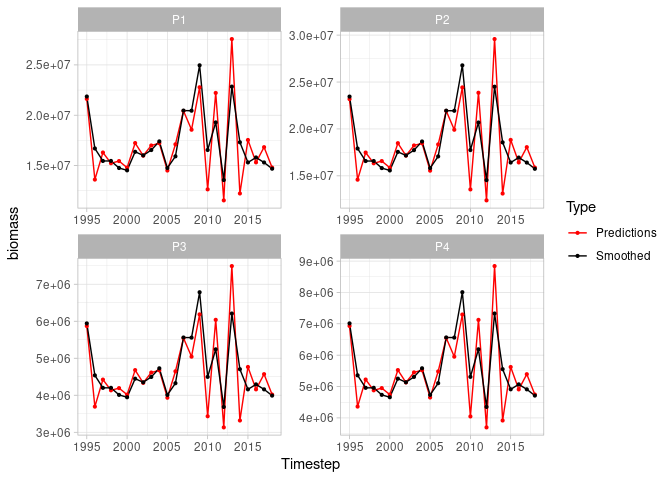
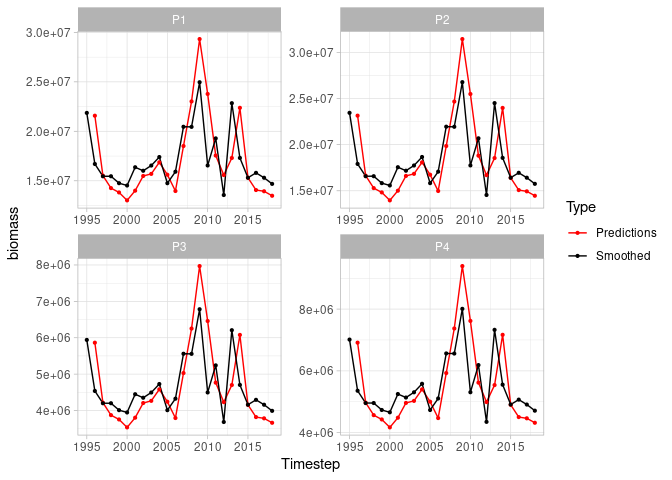
update readme

diff --git a/README.md b/README.md
@@ -402,10 +402,24 @@ sspm_model
 sspm_model_fit <- sspm_model %>% 
   spm(log_productivity ~ sfa +
         weight_per_km2_all_predators_lag_1 +
-        smooth_lag("weight_per_km2_borealis_with_catch") + 
+        smooth_space(by = weight_per_km2_borealis_with_catch) +
         smooth_space(), 
       family = mgcv::scat)
-#> ℹ  Fitting SPM formula: log_productivity ~ sfa + weight_per_km2_all_predators_lag_1 + smooth_lag('weight_per_km2_borealis_with_catch') + smooth_space()
+#> ℹ  Fitting SPM formula: log_productivity ~ sfa + weight_per_km2_all_predators_lag_1 + smooth_space(by = weight_per_km2_borealis_with_catch) + smooth_space()
+#> Warning in estimate.theta(theta, family, G$y, linkinv(eta), scale = scale1, :
+#> step failure in theta estimation
+
+#> Warning in estimate.theta(theta, family, G$y, linkinv(eta), scale = scale1, :
+#> step failure in theta estimation
+
+#> Warning in estimate.theta(theta, family, G$y, linkinv(eta), scale = scale1, :
+#> step failure in theta estimation
+
+#> Warning in estimate.theta(theta, family, G$y, linkinv(eta), scale = scale1, :
+#> step failure in theta estimation
+
+#> Warning in estimate.theta(theta, family, G$y, linkinv(eta), scale = scale1, :
+#> step failure in theta estimation
 
 sspm_model_fit
 #> 
@@ -413,33 +427,37 @@ sspm_model_fit
 #> →  Smoothed data : [2208 rows, 17 columns] / [2116 train, 92 test]
 #> →  Fit summary : 
 #> 
-#> Family: Scaled t(12.132,0.197) 
+#> Family: Scaled t(Inf,0.243) 
 #> Link function: identity 
 #> 
 #> Formula:
 #> log_productivity ~ sfa + weight_per_km2_all_predators_lag_1 + 
-#>     s(lag_matrix, k = 5, m = 1, by = by_matrix) + s(patch_id, 
+#>     s(patch_id, k = 30, bs = "mrf", xt = list(penalty = pen_mat_space), 
+#>         by = weight_per_km2_borealis_with_catch) + s(patch_id, 
 #>     k = 30, bs = "mrf", xt = list(penalty = pen_mat_space))
 #> 
 #> Parametric coefficients:
-#>                                     Estimate Std. Error t value Pr(>|t|)    
-#> (Intercept)                        6.451e-01  3.662e-02  17.617  < 2e-16 ***
-#> sfa5                               5.280e-02  1.585e-02   3.331 0.000882 ***
-#> sfa6                               9.309e-02  1.516e-02   6.139 1.00e-09 ***
-#> sfa7                               8.667e-02  1.552e-02   5.584 2.67e-08 ***
-#> weight_per_km2_all_predators_lag_1 3.426e-05  1.096e-05   3.127 0.001793 ** 
+#>                                      Estimate Std. Error t value Pr(>|t|)    
+#> (Intercept)                        -6.463e-01  7.031e-02  -9.192  < 2e-16 ***
+#> sfa5                               -5.304e-02  6.328e-02  -0.838 0.402049    
+#> sfa6                                5.453e-02  8.101e-02   0.673 0.500963    
+#> sfa7                               -3.976e-02  8.886e-02  -0.447 0.654646    
+#> weight_per_km2_all_predators_lag_1 -3.887e-05  1.114e-05  -3.490 0.000493 ***
 #> ---
 #> Signif. codes:  0 '***' 0.001 '**' 0.01 '*' 0.05 '.' 0.1 ' ' 1
 #> 
 #> Approximate significance of smooth terms:
-#>                            edf Ref.df     F p-value    
-#> s(lag_matrix):by_matrix 4.9849      5 332.5  <2e-16 ***
-#> s(patch_id)             0.9987     29  22.2  <2e-16 ***
+#>                                                   edf Ref.df      F  p-value
+#> s(patch_id):weight_per_km2_borealis_with_catch 16.121     30 29.565  < 2e-16
+#> s(patch_id)                                     6.498     29  0.447 0.000238
+#>                                                   
+#> s(patch_id):weight_per_km2_borealis_with_catch ***
+#> s(patch_id)                                    ***
 #> ---
 #> Signif. codes:  0 '***' 0.001 '**' 0.01 '*' 0.05 '.' 0.1 ' ' 1
 #> 
-#> R-sq.(adj) =  0.649   Deviance explained = 49.4%
-#> -REML =   2918  Scale est. = 1         n = 2024
+#> R-sq.(adj) =  0.548   Deviance explained = 55.4%
+#> -REML =   2936  Scale est. = 1         n = 2024
 ```
 
 16. Plotting the object produces a actual vs predicted plot (with
@@ -463,12 +481,12 @@ head(preds)
 #> Bounding box:  xmin: -64.18658 ymin: 59.47292 xmax: -62.26589 ymax: 60.84335
 #> Geodetic CRS:  WGS 84
 #>      pred_log      pred patch_id year_f sfa      patch_area
-#> 1 -0.01082131 0.9892370       P1   1995   4 5866.769 [km^2]
-#> 2 -0.20447196 0.8150776       P1   1996   4 5866.769 [km^2]
-#> 3  0.05312451 1.0545609       P1   1997   4 5866.769 [km^2]
-#> 4 -0.01467134 0.9854358       P1   1998   4 5866.769 [km^2]
-#> 5  0.04595468 1.0470270       P1   1999   4 5866.769 [km^2]
-#> 6  0.01870983 1.0188860       P1   2000   4 5866.769 [km^2]
+#> 1  0.21007291 1.2337680       P1   1995   4 5866.769 [km^2]
+#> 2 -0.01276559 0.9873155       P1   1996   4 5866.769 [km^2]
+#> 3 -0.07326884 0.9293509       P1   1997   4 5866.769 [km^2]
+#> 4 -0.08042215 0.9227267       P1   1998   4 5866.769 [km^2]
+#> 5 -0.11153992 0.8944557       P1   1999   4 5866.769 [km^2]
+#> 6 -0.12501826 0.8824808       P1   2000   4 5866.769 [km^2]
 #>                         geometry
 #> 1 POLYGON ((-62.56544 59.4729...
 #> 2 POLYGON ((-62.56544 59.4729...
@@ -489,27 +507,16 @@ head(biomass_preds)
 #> Dimension:     XY
 #> Bounding box:  xmin: -64.18658 ymin: 59.47292 xmax: -62.26589 ymax: 60.84335
 #> Geodetic CRS:  WGS 84
-#>   patch_id year_f sfa      patch_area biomass_density_with_catch
-#> 1       P1   1995   4 5866.769 [km^2]         3685.499 [kg/km^2]
-#> 2       P1   1996   4 5866.769 [km^2]         2319.445 [kg/km^2]
-#> 3       P1   1997   4 5866.769 [km^2]         2777.573 [kg/km^2]
-#> 4       P1   1998   4 5866.769 [km^2]         2595.895 [kg/km^2]
-#> 5       P1   1999   4 5866.769 [km^2]         2633.052 [kg/km^2]
-#> 6       P1   2000   4 5866.769 [km^2]         2521.581 [kg/km^2]
-#>      biomass_density biomass_with_catch       biomass
-#> 1 3684.851 [kg/km^2]      21621970 [kg] 21618171 [kg]
-#> 2 2318.692 [kg/km^2]      13607646 [kg] 13603229 [kg]
-#> 3 2777.140 [kg/km^2]      16295382 [kg] 16292840 [kg]
-#> 4 2595.660 [kg/km^2]      15229518 [kg] 15228138 [kg]
-#> 5 2632.172 [kg/km^2]      15447507 [kg] 15442346 [kg]
-#> 6 2520.828 [kg/km^2]      14793536 [kg] 14789119 [kg]
-#>                         geometry
-#> 1 POLYGON ((-62.56544 59.4729...
-#> 2 POLYGON ((-62.56544 59.4729...
-#> 3 POLYGON ((-62.56544 59.4729...
-#> 4 POLYGON ((-62.56544 59.4729...
-#> 5 POLYGON ((-62.56544 59.4729...
-#> 6 POLYGON ((-62.56544 59.4729...
+#> # A tibble: 6 × 9
+#>   year_f patch_id sfa   patch_area biomass_with_catch   biomass biomass_density…
+#>    <dbl> <fct>    <fct>     [km^2]               [kg]      [kg]        [kg/km^2]
+#> 1   1995 P1       4          5867.                NA        NA               NA 
+#> 2   1996 P1       4          5867.          21579972. 21575555.            3678.
+#> 3   1997 P1       4          5867.          15515429. 15512888.            2645.
+#> 4   1998 P1       4          5867.          14258242. 14256862.            2430.
+#> 5   1999 P1       4          5867.          13823457. 13818296.            2356.
+#> 6   2000 P1       4          5867.          13019844. 13015428.            2219.
+#> # … with 2 more variables: biomass_density [kg/km^2], geometry <POLYGON [°]>
 ```
 
 We can also predict the biomass one step ahead.
@@ -517,6 +524,7 @@ We can also predict the biomass one step ahead.
 ``` r
 biomass_one_step <- predict(sspm_model_fit, biomass = "weight_per_km2_borealis", 
                             next_ts = TRUE)
+#> ! Not all vars are lagged vars: weight_per_km2_borealis_with_catch
 head(biomass_one_step)
 #> Simple feature collection with 6 features and 5 fields
 #> Geometry type: POLYGON
@@ -524,14 +532,14 @@ head(biomass_one_step)
 #> Bounding box:  xmin: -64.18658 ymin: 58.17744 xmax: -60.85729 ymax: 60.84488
 #> Geodetic CRS:  WGS 84
 #> # A tibble: 6 × 6
-#>   patch_id year_f sfa     biomass patch_area                            geometry
-#>   <fct>     <dbl> <fct>      [kg]     [km^2]                       <POLYGON [°]>
-#> 1 P1         2019 4     15936996.      5867. ((-62.56544 59.47292, -62.51885 60…
-#> 2 P2         2019 4     21005361.      6294. ((-61.15825 60.5856, -61.18083 60.…
-#> 3 P3         2019 4      4447293.      1594. ((-61.98352 59.91756, -62.14032 59…
-#> 4 P4         2019 4      4771797.      1882. ((-61.60726 58.17744, -61.55968 58…
-#> 5 P5         2019 4      5449759.      1890. ((-61.54308 58.72455, -60.98005 58…
-#> 6 P6         2019 4      5622850.      2149. ((-62.81971 59.18792, -62.54312 59…
+#>   patch_id year_f sfa   biomass patch_area                              geometry
+#>   <fct>     <dbl> <fct>    [kg]     [km^2]                         <POLYGON [°]>
+#> 1 P1         2019 4          NA      5867. ((-62.56544 59.47292, -62.51885 60.2…
+#> 2 P2         2019 4          NA      6294. ((-61.15825 60.5856, -61.18083 60.61…
+#> 3 P3         2019 4          NA      1594. ((-61.98352 59.91756, -62.14032 59.9…
+#> 4 P4         2019 4          NA      1882. ((-61.60726 58.17744, -61.55968 58.2…
+#> 5 P5         2019 4          NA      1890. ((-61.54308 58.72455, -60.98005 58.9…
+#> 6 P6         2019 4          NA      2149. ((-62.81971 59.18792, -62.54312 59.4…
 ```
 
 18. We can produce an array of plots, as timeseries or as spatial plots
@@ -552,6 +560,8 @@ plot(sspm_model_fit, log = T, use_sf = TRUE)
 
 ``` r
 plot(sspm_model_fit, biomass = "weight_per_km2_borealis",  scales = "free")
+#> Warning: Removed 1 row(s) containing missing values (geom_path).
+#> Warning: Removed 92 rows containing missing values (geom_point).
 ```
 
 <img src="man/figures/README-unnamed-chunk-26-1.png" width="100%" />
@@ -565,6 +575,11 @@ plot(sspm_model_fit, biomass = "weight_per_km2_borealis", use_sf = TRUE)
 ``` r
 plot(sspm_model_fit, biomass = "weight_per_km2_borealis", 
      next_ts = TRUE, aggregate = TRUE, scales = "free", interval = T)
+#> ! Not all vars are lagged vars: weight_per_km2_borealis_with_catch
+#> Warning in matrix(qrc[-1], nrow(pm$X), ncol(pm$X) - 1, byrow = TRUE): data
+#> length exceeds size of matrix
+#> Warning: Removed 2 row(s) containing missing values (geom_path).
+#> Warning: Removed 8 rows containing missing values (geom_point).
 #> Warning in max(ids, na.rm = TRUE): no non-missing arguments to max; returning
 #> -Inf
 
